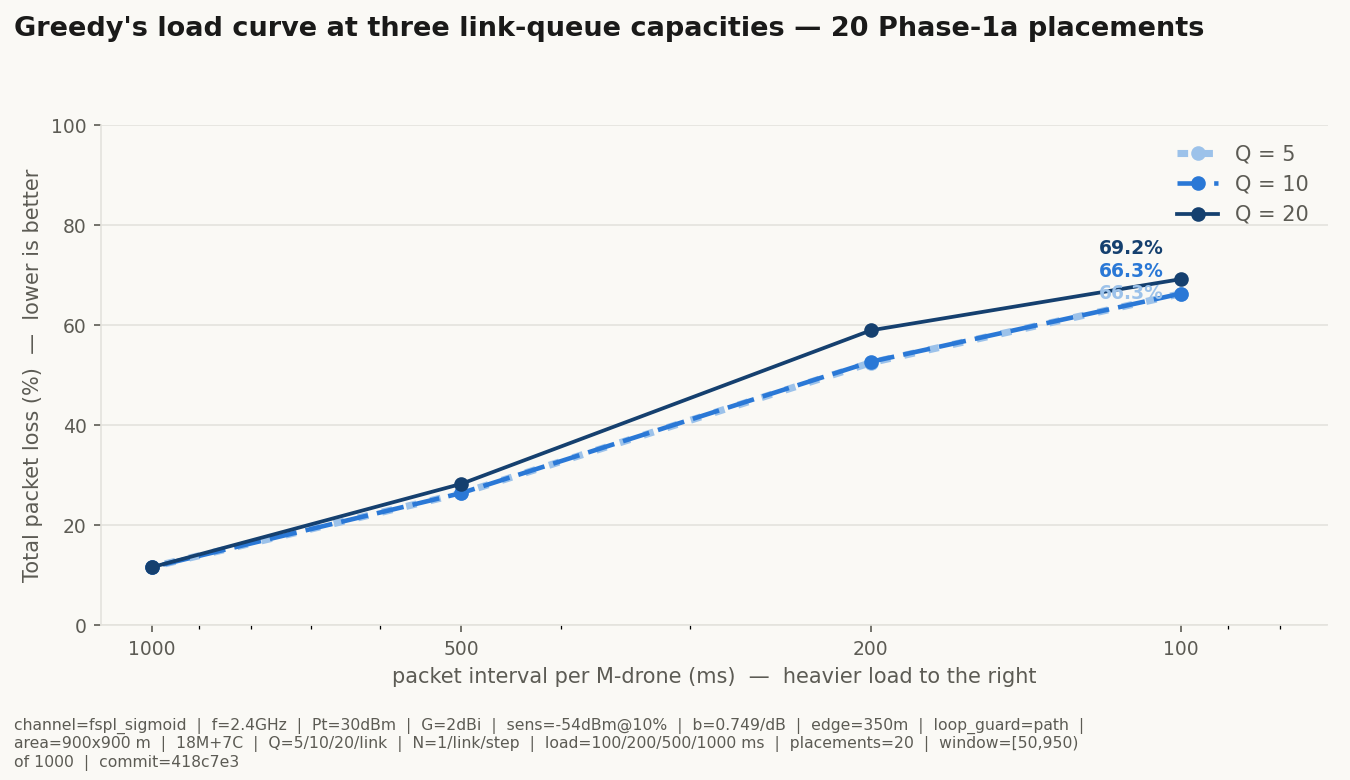
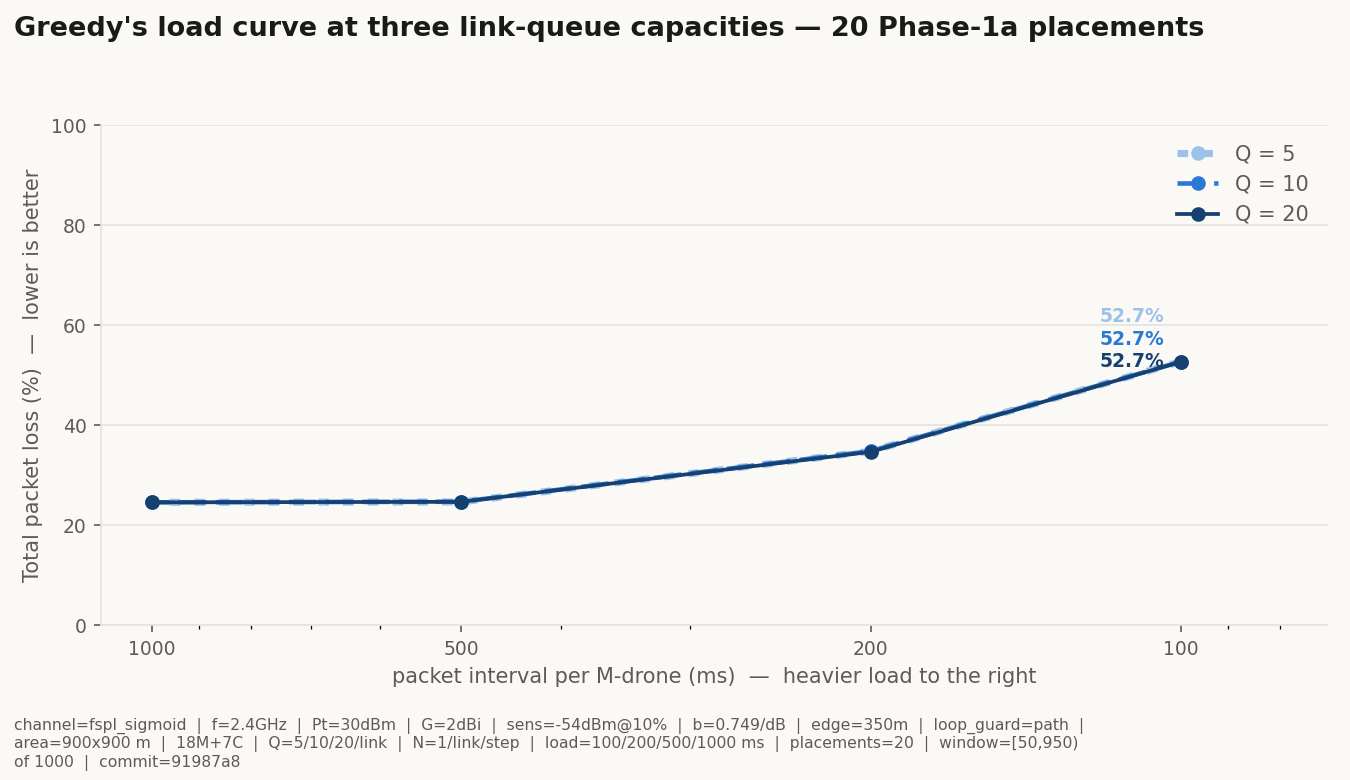
Report: sections 4, 7, 8, 9 and the citations, on the new numbers
Section 4: the radio-channel part rewritten — the curve is now presented as
two distances we chose (10% at 250 m, 50% at 350 m) with the radio values as
calibration, IQMR gone as a source, and a new "Why channel loss is high"
paragraph. The neighbour rule is stated as our own design choice with OLSR as
an example rather than as the source. TTL, the per-link-transmitter
assumption, the hop limit in the step list, the no-ACK rule and the no_route
row all reworded as given.

Section 7: greedy described as classic geographic forwarding. Its loss is
24.6% at the two light loads, all of it on the channel; 10.3% goes to full
queues at 200 ms while the channel stays the main cause (24.6%), and at
100 ms queues take over (29.0%). Random is ~74% at every load, 61% on the
channel. Greedy beats random on all 20 layouts at every load.

Section 8: the rate rule no longer claims to explore, and the model-keeping
rule (0.5 points better than the best) is spelled out. Exploration is
mentioned only in the RL network table, as asked.

Section 9: 50 test layouts — 200 ms rl 22.3 / rate 24.7 / greedy 32.1 /
random 74.2; 500 ms rl 12.6 / 15.8 / 24.6 / 74.3. rl is lowest at both
loads; the largest p over the four paired tests is 2.4e-5, so p < 0.0001
holds. Table 6 is taken unchanged from out/1b_channel_diagnosis.csv, whose
rl rows are bit-identical to before the greedy change.

Section 11: IQMR removed, RFC 3626 reworded, Halperin 2012 added.
[…]

diff --git a/docs/report/phase1_report.md b/docs/report/phase1_report.md
@@ -80,9 +80,9 @@ distance between the two drones. We compute it in two steps:
 
 Where:
 - d: distance between the drones
-- P_T: transmit power, 1 W (30 dBm) [CITE: IQMR]
+- P_T: transmit power, 1 W
 - G_T, G_R: antenna gains, 2 dBi
-- S: receiver sensitivity, −54 dBm, the power at which 10% of packets
+- S: receiver sensitivity, −54 dBm: the power at which 10% of packets
   are lost [CITE: 802.11 receiver minimum input sensitivity]
 - b: set so that the loss is 50% at 350 m
 
@@ -90,10 +90,12 @@ Real wireless links behave this way: reliable up to some distance,
 then a gradual rise in loss, then no connection [CITE: Zúñiga &
 Krishnamachari 2004].
 
-Free space alone would give a range of kilometres, because it ignores
-the ground, obstacles and interference. We therefore set S = −54 dBm,
-so that the loss is 10% at 250 m, the range reported for 1 W drone
-radios [CITE: IQMR].
+The curve is set by two distances that we chose: 10% loss at 250 m
+and 50% loss at 350 m. The 350 m comes from the layout scan below. The
+250 m makes the loss rise gradually, at a rate within what has been
+measured on real wireless links [CITE: Halperin 2012]. The radio
+values (1 W, 2.4 GHz, 2 dBi, −54 dBm) are calibration values that
+produce this curve; they do not affect the results.
 
 | distance | 100 m | 200 m | 250 m | 300 m | 350 m |
 |---|---|---|---|---|---|
@@ -105,15 +107,21 @@ radios [CITE: IQMR].
 **Figure 2:** Loss per transmission as a function of distance. Beyond
 350 m a drone does not accept the other as a neighbour.
 
+**Why channel loss is high:** a lost transmission is not resent, so
+one lost hop loses the packet. Links can lose up to 50%, and with 25
+drones in 900×900 m some drones have only long links. Real Wi-Fi
+resends lost packets, so its loss would be much lower. Adding resends
+is left for later.
+
 **Links and range**
 
-A drone accepts another drone as a neighbour only if more than
-half of its hello messages arrive (loss below 50%), as in routing
-protocols such as OLSR [CITE: RFC 3626]. With our loss curve, the
-loss reaches 50% at 350 m, so drones more than 350 m apart are not
-neighbours. A link losing more than half its packets is rarely
-useful: two 175 m hops lose only 2.2%, while one 350 m hop loses
-50%.
+A drone accepts another drone as a neighbour only if more than half of
+its hello messages arrive (loss below 50%). This is our own design
+choice; real routing protocols such as OLSR also use link-quality
+thresholds for their neighbours [CITE: RFC 3626]. With our loss curve,
+the loss reaches 50% at 350 m, so drones more than 350 m apart are not
+neighbours. A link losing more than half its packets is rarely useful:
+two 175 m hops lose only 2.2%, while one 350 m hop loses 50%.
 <!-- source: rl_sim/fanet_sim/envs/channel.py (p_loss): 1.0882% at 175 m, so 2.1646% over two hops; 50.0000% at 350 m -->
 
 We chose 350 m by testing several ranges on 3000 random layouts:
@@ -139,9 +147,9 @@ Time moves in steps of 100 ms. Each M-drone creates one packet every
 100 ms. The drones do not all send at the same moment: each one starts
 at a random offset.
 
-A packet may take at most 10 hops and is dropped if it is not
-delivered within (TTL) of 5 seconds (50 steps). The choice of 200 ms is
-explained in section 7.
+A packet may take at most 10 hops. Each packet has a time to live
+(TTL) of 5 seconds (50 steps); if it is not delivered by then, it is
+dropped. The choice of 200 ms is explained in section 7.
 <!-- source: rl_sim/fanet_sim/config.py (TIMESTEP, PACKET_INTERVAL_STEPS, TRAFFIC_LOADS_MS, RANDOM_TRAFFIC_OFFSETS, MAX_HOPS, PACKET_TTL) -->
 
 **Queues**
@@ -149,8 +157,9 @@ explained in section 7.
 Each drone has a separate queue for every link: one per neighbour, and
 one for the GS if it is in range. Each queue holds up to 10 packets
 and sends one packet per step. All of a drone's queues can send in the
-same step, since we do not model interference between transmissions.
-A packet that arrives at a full queue is dropped.
+same step, since we assume each link has its own transmitter. A real
+drone with a single radio could not do this, and our results depend on
+this assumption. A packet that arrives at a full queue is dropped.
 <!-- source: rl_sim/fanet_sim/config.py (QUEUE_CAPACITY, MAX_TX_PER_STEP) -->
 
 **Routing**
@@ -169,7 +178,8 @@ in circles. A similar idea is used in Internet routing (BGP)
 **One time step**
 
 In each 100 ms step:
-1. Packets older than 5 seconds are dropped.
+1. Packets older than 5 seconds, or that used all 10 hops, are
+   dropped.
 2. M-drones create new packets and choose a next hop for each one.
 3. Each queue sends its first packet. The packet may be lost on the
    way.
@@ -187,8 +197,8 @@ Drones learn what happened to their packets from acknowledgements
 2. **End-to-end ACK:** when a packet reaches the GS, an ACK goes back
    along its route, so every drone that forwarded it learns it was
    delivered.
-3. **No ACK:** if no ACK arrives within 5 seconds, each drone that
-   forwarded the packet counts it as lost.
+3. **No ACK:** if the packet is not delivered within its 5-second
+   lifetime (TTL), each drone that forwarded it counts it as lost.
 
 In Phase 1, ACKs are ideal: they arrive instantly, are never lost and
 use no capacity. In every run used for a result, we check that what
@@ -204,7 +214,7 @@ packets that never reach the GS. Each lost packet has one reason:
 |---|---|
 | channel | lost on the way between two drones |
 | queue_full | arrived at a full queue |
-| no_route | the drone had no neighbour to send to |
+| no_route | no allowed neighbour to send to (for greedy: none closer to the GS) |
 | dead_end | all neighbours were already visited (loop guard) |
 | ttl | not delivered within 5 seconds |
 | hop_limit | used all 10 hops |
@@ -262,11 +272,10 @@ _To be written after Phase 2._
 Before building a learning agent, we tested two simple routing rules
 as baselines:
 
-1. **Greedy:** the drone looks only at neighbours that are closer to
-   the GS than itself, so that every hop makes real progress and the
-   packet does not wander around. Among them, it picks the link with
-   the lowest loss, and skips links whose queue is full. If no
-   neighbour is closer to the GS, the packet is dropped.
+1. **Greedy:** the drone sends each packet to the neighbour closest to
+   the GS, and skips neighbours whose queue is full. It only uses
+   neighbours closer to the GS than itself, so every hop makes
+   progress. If no neighbour is closer, the packet is dropped.
 2. **Random:** the drone picks one of its neighbours at random, with no
    other rule.
 
@@ -283,27 +292,24 @@ Figure 3 shows the total loss and its causes.
 **Figure 3:** Total packet loss and its causes for greedy and random,
 at each load (mean over 20 layouts, standard deviation in brackets).
 
-Greedy loses much less than random at every load. Most of greedy's
-loss comes from full queues: since every drone sends towards the
-GS, many packets pass through the same few links and their queues fill
-up. As the load grows, this gets worse (2.9% at 1000 ms, 40% at
-200 ms).
+Greedy loses much less than random at every load, on all 20 layouts.
+At light loads almost all of greedy's loss is on the channel (24.6%),
+because it takes few, long hops. As the load grows, its queues fill
+up.
 
-Random loses about 74% at every load. It does not move towards the GS,
-so packets take many hops and most are lost on the channel along
+Random loses about 74% at every load. It does not move towards the
+GS, so packets take many hops and most are lost on the channel along
 the way (61%). Its queues never fill up, so the load does not matter.
-<!-- source: rl_sim/out/1a_runs.csv -->
+<!-- source: rl_sim/out/1a_summary.csv -->
 
 **Choosing the main load**
 
-We use 200 ms as the main load for the rest of the project. It is the
-heaviest load where the network is busy but not overloaded:
-- **Busy:** at 200 ms, 40% of greedy's packets are lost to full
+We use 200 ms as the main load for the rest of the project:
+- **Busy:** at 200 ms, 10.3% of greedy's packets are lost to full
   queues, so the routing choice matters.
-- **Not overloaded:** greedy still beats random on all 20 layouts. At
-  100 ms it wins on only 18 of 20, and the gap shrinks from 22 to 8
-  points.
-<!-- source: rl_sim/out/1a_runs.csv, rl_sim/out/1a_paired.csv -->
+- **Channel still the main cause:** 24.6% of greedy's packets are lost
+  on the channel. At 100 ms, full queues become the main cause (29.0%).
+<!-- source: rl_sim/out/1a_summary.csv, rl_sim/out/1a_paired.csv -->
 
 ---
 
@@ -363,16 +369,16 @@ takes one training step every 32 decisions.
 
 **The rate rule**
 
-To see what the network actually learns, we also built a simple rule
-with no learning, called rate. It uses the same delivery rates,
-but with a fixed formula: it picks the link with the highest delivery
-rate and skips links whose queue is full. In 5% of decisions it picks
-a random link, so that it keeps measuring links it does not use.
-<!-- source: rl_sim/fanet_sim/config.py (EPSILON_RATE); rl_sim/agents/rate_router.py -->
+To compare against, we also use a simple rule with no learning, called
+**rate**. Rate picks the link with the highest delivery rate and skips
+links whose queue is full. Before a link has any measured packets, its
+delivery rate is estimated from its channel loss.
 
-Comparing the three rules tells us two things:
-- **Rate vs greedy:** how much the delivery rates alone help.
-- **RL vs rate:** how much the learning adds on top of that.
+Rate uses only the delivery rate and avoids full queues. RL also uses
+the channel loss and how full each queue is, and learns how to combine
+them. So RL's advantage over rate comes from both the extra
+information and the learning.
+<!-- source: rl_sim/agents/rate_router.py -->
 
 **Training and testing**
 
@@ -386,12 +392,14 @@ on layouts it learned from:
 | test | 50 |
 
 Each training run uses one layout at 200 ms. Every 10 runs we test the
-network on the validation layouts and keep the best one. Training
-stops when the network has not improved for 5 checks in a row.
+network on the validation layouts. We save this version only if its
+loss is at least 0.5% lower than the best version so far (for example,
+from 22.2% to 21.7%). Training stops when the network has not improved
+for 5 checks in a row.
 
 We trained three networks, each starting from different random
 weights, to check that the result does not depend on luck.
-<!-- source: rl_sim/scripts/train_1b.py (TRAIN_SEEDS, VALIDATION_SEEDS, TEST_SEEDS, EVALUATE_EVERY, PATIENCE) -->
+<!-- source: rl_sim/scripts/train_1b.py (TRAIN_SEEDS, VALIDATION_SEEDS, TEST_SEEDS, EVALUATE_EVERY, PATIENCE, MIN_IMPROVEMENT) -->
 
 ---
 
@@ -403,51 +411,53 @@ networks.
 
 | load | random | greedy | rate | RL |
 |---|---|---|---|---|
-| 200 ms | 74.2% | 52.8% | 25.1% | 22.3% |
-| 500 ms | 74.3% | 27.4% | 21.0% | 12.6% |
+| 200 ms | 74.2% | 32.1% | 24.7% | 22.3% |
+| 500 ms | 74.3% | 24.6% | 15.8% | 12.6% |
 
 **Table 4:** Total packet loss on the 50 test layouts.
 <!-- source: rl_sim/out/1b_test50_runs.csv -->
 
 RL has the lowest loss at both loads, and the differences are
-statistically significant (p < 0.0001).
+statistically significant (p < 0.0001). RL was trained at 200 ms only;
+the 500 ms results show how well it generalises.
 <!-- source: rl_sim/out/1b_test50_paired.csv -->
 
 **What we saw**
 
-**1. RL behaves differently from rate.** Both rules use the same
-delivery rates, but RL loses less on the channel. It avoids bad links
-more often, and in exchange takes slightly longer routes.
+**1. RL avoids lossy links.** RL loses fewer packets on the channel
+than rate, and in exchange its routes are slightly longer. Part of
+this comes from RL also using the channel loss of each link, which
+rate does not use.
 
 | at 200 ms | rate | RL |
 |---|---|---|
-| lost on the channel | 22.9% | 18.5% |
-| lost to full queues | 0.5% | 0.0% |
-| lost for other reasons (dead end, ttl, hop limit) | 1.6% | 3.8% |
-| average hops per packet | 3.1 | 3.5 |
-| channel losses on bad links (over 20% loss) | 55% | 38% |
+| total loss | 24.7% | 22.3% |
+| lost on the channel | 23.3% | 18.5% |
+| lost to full queues | 0.06% | 0.03% |
+| lost for other reasons (dead end, ttl, hop limit) | 1.4% | 3.8% |
+| hops per delivered packet | 2.9 | 3.5 |
 
-**Table 5:** How rate and RL lose packets at 200 ms.
-<!-- source: rl_sim/out/1b_test50_runs.csv, rl_sim/out/1b_channel_diagnosis.csv -->
+**Table 5:** How rate and RL lose packets at 200 ms (50 test layouts).
+<!-- source: rl_sim/out/1b_test50_runs.csv -->
 
-**2. Most of the remaining loss is not caused by routing.** For each
-packet RL lost on the channel, we checked what other links the drone
-had at that moment:
+**2. Where RL loses packets on the channel.** For each packet RL lost
+on the channel, we looked at the other links the drone had at the
+moment it chose:
 
-| situation when the packet was lost | share of RL's channel losses |
+| when the packet was lost | % of RL's channel losses |
 |---|---|
-| no better link existed | 46% |
-| a better link existed, but its queue was busy | 7% |
-| a better link existed, but it had a worse delivery rate to the GS | 47% |
-| a better link existed and was better in every way | 0.02% |
+| the drone had no other link with much lower loss | 46% |
+| a link with much lower loss existed, but its queue was half full or more | 7% |
+| a link with much lower loss existed, but fewer packets sent on it reached the GS | 47% |
+| a link with much lower loss existed and was better in every way | 0.02% |
 
-**Table 6:** Why RL's packets were lost on the channel (one network,
-200 ms).
+**Table 6:** RL's channel losses at 200 ms (one network). "Much lower"
+means at least 10% lower. The rows add up to 100%.
 <!-- source: rl_sim/out/1b_channel_diagnosis.csv -->
 
-RL almost never makes a clear mistake. In about half of its channel
-losses, no better link existed. To reduce this loss, the drones'
-positions must change, which is the goal of Phase 2.
+In about half of these losses, the drone had no other link with much
+lower loss. Moving drones could create such links; Phase 2 tests
+whether this lowers the loss.
 
 ---
 
@@ -463,17 +473,16 @@ _To be written after Phase 2._
 
 <!--
 Running list of citations still needed:
-- [CITE: IQMR] — Sharvari et al. 2024, arXiv:2408.09109. The UAV study the
-  radio constants come from: 1 W transmit power, and the 250 m range quoted
-  for 1 W drone radios. Cited twice in section 4 (The Simulator).
 - [CITE: 802.11 receiver minimum input sensitivity] — the clause defining
   sensitivity as the power giving a 10% packet error rate, which is what
   anchors the loss curve. Cited in section 4.
 - [CITE: Zuniga & Krishnamachari 2004] — for the claim that real wireless
   links are reliable up to some distance, then degrade gradually, then fail.
   Cited in section 4.
-- [CITE: RFC 3626] — OLSR, for the convention that a neighbour is accepted
-  only when more than half of its hello messages arrive. Cited in section 4.
+- [CITE: RFC 3626] — OLSR, as an example of a routing protocol that uses
+  link-quality thresholds for its neighbours. Cited in section 4.
+- [CITE: Halperin 2012] — arXiv:1301.6644, the measured width of the loss
+  transition on real wireless links. Cited in section 4.
 - [CITE: BGP AS_PATH] — the standard precedent for carrying a visited-list in
   the packet header. Cited in section 4.
 -->

diff --git a/CLAUDE.md b/CLAUDE.md
@@ -131,9 +131,12 @@ not to be reused, and the same holds for the Phase-2 agents.
   where the network is congested (queue_full drops are a real part of
   the loss) but not yet saturated (greedy beats random on every
   placement). Chosen by the team after running all four loads, and
-  re-checked after the channel change: at 200 ms greedy queue_full =
-  40.0% and greedy beats random on 20/20 placements by 21.8 points; at
-  100 ms only 18/20 (saturated).
+  re-checked after the channel and the greedy change: at 200 ms
+  greedy loses 10.29% of its packets to full queues while the channel
+  is still the main cause (24.56%); at 100 ms full queues take over
+  (29.05% against 23.68%). Greedy beats random on 20/20 placements at
+  every load, so the old "18/20 at 100 ms" saturation argument no
+  longer applies under classic greedy.
 - Seeds: separate placement, channel/traffic and routing streams;
   greedy and random run on identical placement and traffic.
 - Neighbor knowledge: each drone knows its neighbors' positions and
@@ -196,15 +199,15 @@ Phase 1a and Phase 1b are COMPLETE on the new channel. Everything in
 out/ is a current result; every figure and CSV carries the new stamp.
 
 Headline, 50 TEST layouts at 200 ms, mean % of packets created:
-  rl 22.29   rate 25.05   greedy 52.76   random 74.17
-  rl - rate: -2.76 points, lower on 41 of 50 layouts, p < 0.0001
+  rl 22.29   rate 24.70   greedy 32.05   random 74.17
+  rl - rate: -2.40 points, lower on 40 of 50 layouts, p < 0.0001
     (exact two-sided sign test and paired t-test)
-At 500 ms: rl 12.56, rate 20.96, greedy 27.42, random 74.28; rl - rate
--8.40 points, 50/50, p < 0.0001.
+At 500 ms: rl 12.56, rate 15.80, greedy 24.58, random 74.28; rl - rate
+-3.24 points, 47/50, p < 0.0001.
 
 Supporting checks, all done on the new channel:
 - Loop guard: "path" loses fewer packets than "previous" for random
-  (-4.53 points at both loads), rate (-1.75 / -2.52) and rl (-2.14 /
+  (-4.53 points at both loads), rate (-2.28 / -5.34) and rl (-2.14 /
   -3.48), all p < 0.0001; greedy is identical under both, on every
   layout. rl was trained separately under each guard, so no model is
   evaluated under a guard it did not train with.
@@ -217,8 +220,9 @@ Supporting checks, all done on the new channel:
 - Range check: at the 350 m edge, 99.7% of M-drones have a path to the
   GS and 4.0% of random layouts strand at least one.
 
-Next: the written report, then Phase 2. The report under docs/report/
-is still written against the old channel and is rewritten next.
+Next: the rest of the written report, then Phase 2. Sections 4 and
+7-9 of docs/report/phase1_report.md and its citation list are current;
+sections 1, 2, 3, 5, 6, 10 and 12 are written after Phase 2.
 
 ## Open questions (do NOT decide these; ask)
 - Whether LOOP_GUARD stays "path" (the header-carried visited list);
